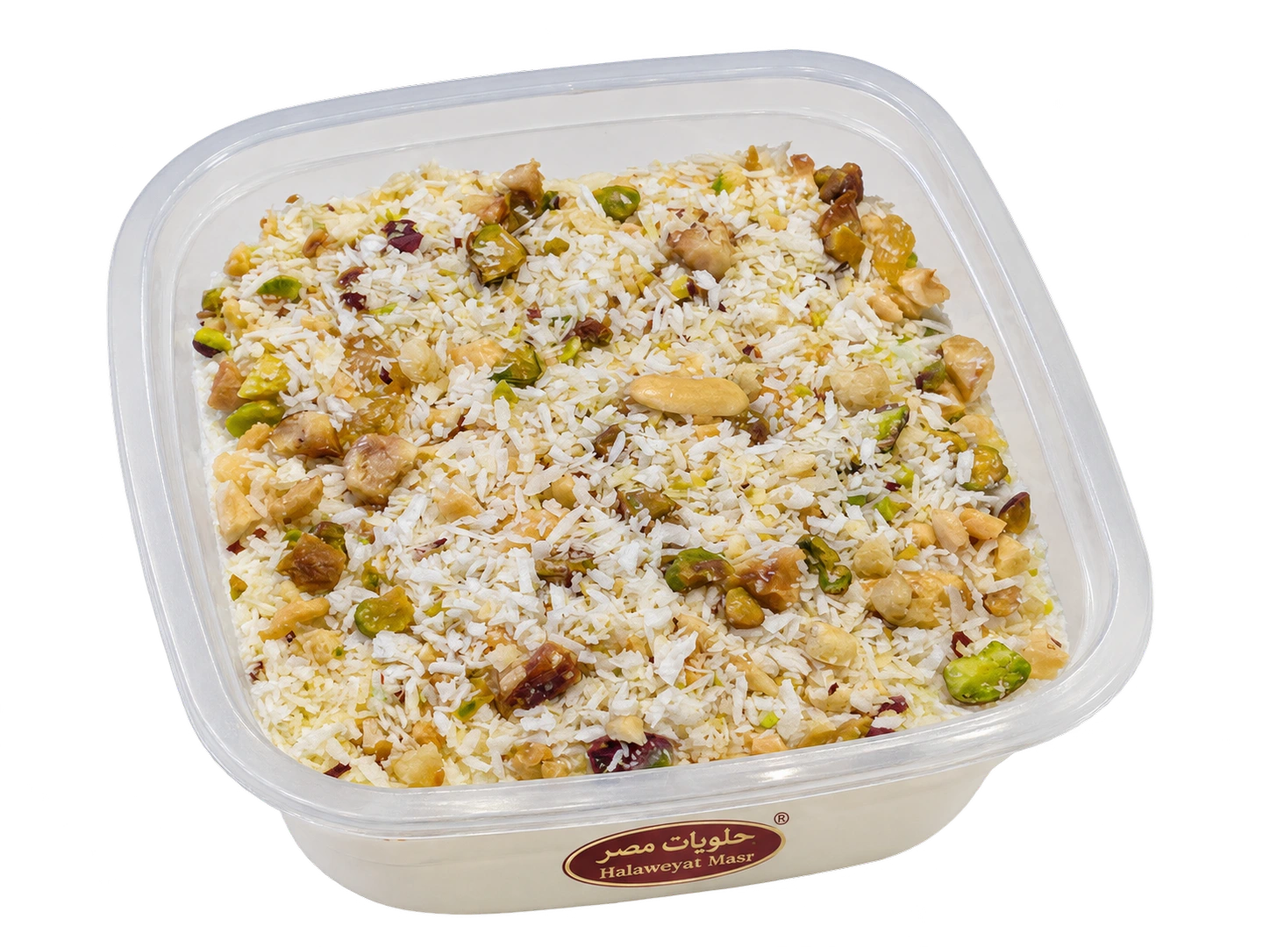
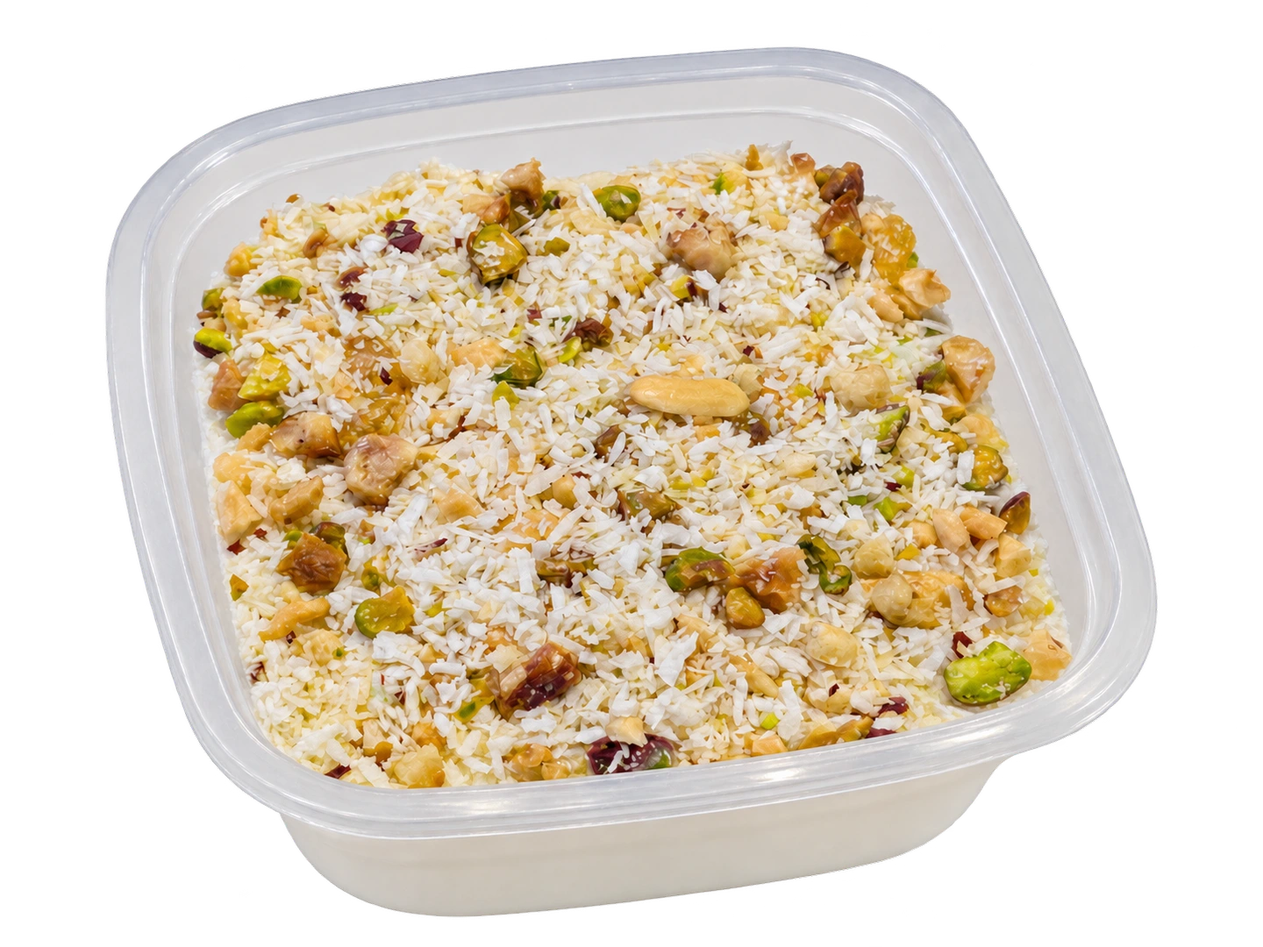
Adjust menu photo lighting and open dessert cups

diff --git a/index.html b/index.html
@@ -8,12 +8,23 @@
 <meta content="المنيو الرقمي لكافيه حلويات مصر: مشروبات وكاسات وأطباق متنوعة وأصناف مميزة." name="description"/>
 <title>منيو الكافيه | حلويات مصر</title>
 <link href="assets/logo.png" rel="icon" type="image/png"/>
-<link href="styles.css?v=menu-bottom-entry-1" rel="stylesheet"/>
+<link href="styles.css?v=menu-photo-lighting-1" rel="stylesheet"/>
 <link rel="preconnect" href="https://www.gstatic.com" crossorigin/>
-<link rel="modulepreload" href="catalog-sync.js?v=menu-dessert-studio-nov-25"/>
+<link rel="modulepreload" href="catalog-sync.js?v=menu-photo-lighting-1"/>
 <script defer="" src="app.js?v=menu-dessert-studio-nov-25"></script>
 </head>
 <body>
+<svg aria-hidden="true" class="product-photo-filters" width="0" height="0" xmlns="http://www.w3.org/2000/svg">
+<defs>
+<filter id="product-photo-lighting" color-interpolation-filters="sRGB">
+<feComponentTransfer>
+<feFuncR type="gamma" exponent=".88"/>
+<feFuncG type="gamma" exponent=".88"/>
+<feFuncB type="gamma" exponent=".88"/>
+</feComponentTransfer>
+</filter>
+</defs>
+</svg>
 <a class="skip-link" href="#main-content">تخطي إلى المنيو</a>
 <header class="site-header">
 <div class="container header-inner">
@@ -102,18 +113,19 @@
 <h2 id="dessert-cups-title">الكاسات والديسيرت</h2>
 <p class="section-intro">أصناف حلوة لكل وقت.</p>
 </div>
-<div class="products-grid products-grid--simple"><article class="product-card product-card--simple" data-category="dessert-cups" data-description-ar="" data-description-en="" data-image="" data-ingredients-ar="" data-ingredients-en="" data-name="اناناس بالكريمه" data-name-en="Pineapple with Cream" data-price="50" data-product-id="dessert-cups-1918"><h3 class="product-title">اناناس بالكريمه</h3><p class="price">50 <small>جنيه</small></p></article><article class="product-card product-card--simple" data-category="dessert-cups" data-description-ar="" data-description-en="" data-image="" data-ingredients-ar="" data-ingredients-en="" data-name="جيلى بالفواكه" data-name-en="Fruit Jelly" data-price="60" data-product-id="dessert-cups-1921"><h3 class="product-title">جيلى بالفواكه</h3><p class="price">60 <small>جنيه</small></p></article></div>
+<div class="products-grid products-grid--simple"><article class="product-card product-card--simple" data-category="dessert-cups" data-description-ar="" data-description-en="" data-image="" data-ingredients-ar="" data-ingredients-en="" data-name="جيلى بالفواكه" data-name-en="Fruit Jelly" data-price="60" data-product-id="dessert-cups-1921"><h3 class="product-title">جيلى بالفواكه</h3><p class="price">60 <small>جنيه</small></p></article></div>
 <div class="products-grid products-grid--details menu-photo-grid" id="dessert-cups-photos">
+<article class="product-card product-card--detail has-cutout" data-menu-photo="" data-category="dessert-cups" data-product-id="dessert-cups-1918" data-name="اناناس بالكريمه" data-name-en="Pineapple with Cream" data-price="50" data-description-ar="" data-description-en="" data-ingredients-ar="" data-ingredients-en="" data-image="assets/products/cutouts/pineapple-with-cream.webp?v=menu-photo-lighting-1"><div class="product-tap"><span class="product-visual photo-visual"><img alt="اناناس بالكريمه" decoding="async" loading="eager" src="assets/products/cutouts/cards/pineapple-with-cream.webp?v=menu-photo-lighting-1"/></span><span class="product-info"><span class="product-badge">من أطباقنا</span><span class="product-title">اناناس بالكريمه</span><span class="product-footer"><span class="price">50 <small>جنيه</small></span></span></span></div></article>
 <article class="product-card product-card--detail has-cutout" data-menu-photo="" data-category="dessert-cups" data-product-id="dessert-cups-1958" data-name="ايس كريم بوله بالمكسرات" data-name-en="Ice Cream Scoop with Nuts" data-price="50" data-description-ar="" data-description-en="" data-ingredients-ar="" data-ingredients-en="" data-image="assets/products/cutouts/ice-cream-nuts-single.webp?v=menu-dessert-studio-nov-25"><div class="product-tap"><span class="product-visual photo-visual"><img alt="ايس كريم بوله بالمكسرات" decoding="async" loading="eager" src="assets/products/cutouts/cards/ice-cream-nuts-single.webp?v=menu-dessert-studio-nov-25"/></span><span class="product-info"><span class="product-badge">من أطباقنا</span><span class="product-title">ايس كريم بوله بالمكسرات</span><span class="product-footer"><span class="price">50 <small>جنيه</small></span></span></span></div></article>
 <article class="product-card product-card--detail has-cutout" data-menu-photo="" data-category="dessert-cups" data-product-id="dessert-cups-1959" data-name="ايس كريم 2 بوله بالمكسرات" data-name-en="Two Ice Cream Scoops with Nuts" data-price="100" data-description-ar="" data-description-en="" data-ingredients-ar="" data-ingredients-en="" data-image="assets/products/cutouts/ice-cream-nuts-double.webp?v=menu-dessert-studio-nov-25"><div class="product-tap"><span class="product-visual photo-visual"><img alt="ايس كريم 2 بوله بالمكسرات" decoding="async" loading="eager" src="assets/products/cutouts/cards/ice-cream-nuts-double.webp?v=menu-dessert-studio-nov-25"/></span><span class="product-info"><span class="product-badge">من أطباقنا</span><span class="product-title">ايس كريم 2 بوله بالمكسرات</span><span class="product-footer"><span class="price">100 <small>جنيه</small></span></span></span></div></article>
 <article class="product-card product-card--detail has-cutout" data-menu-photo="" data-category="dessert-cups" data-product-id="dessert-cups-2192" data-name="ايس كريم فواكة" data-name-en="Fruit Ice Cream" data-price="90" data-description-ar="" data-description-en="" data-ingredients-ar="" data-ingredients-en="" data-image="assets/products/cutouts/fruit-ice-cream.webp?v=menu-dessert-studio-nov-25"><div class="product-tap"><span class="product-visual photo-visual"><img alt="ايس كريم فواكة" decoding="async" loading="eager" src="assets/products/cutouts/cards/fruit-ice-cream.webp?v=menu-dessert-studio-nov-25"/></span><span class="product-info"><span class="product-badge">من أطباقنا</span><span class="product-title">ايس كريم فواكة</span><span class="product-footer"><span class="price">90 <small>جنيه</small></span></span></span></div></article>
 <article class="product-card product-card--detail has-cutout" data-menu-photo="" data-category="dessert-cups" data-product-id="dessert-cups-1960" data-name="ايس كريم سوفت" data-name-en="Soft Ice Cream" data-price="40" data-description-ar="" data-description-en="" data-ingredients-ar="" data-ingredients-en="" data-image="assets/products/cutouts/soft-serve-no-plate.webp?v=menu-dessert-studio-nov-25"><div class="product-tap"><span class="product-visual photo-visual"><img alt="ايس كريم سوفت" decoding="async" loading="eager" src="assets/products/cutouts/cards/soft-serve-no-plate.webp?v=menu-dessert-studio-nov-25"/></span><span class="product-info"><span class="product-badge">من أطباقنا</span><span class="product-title">ايس كريم سوفت</span><span class="product-footer"><span class="price">40 <small>جنيه</small></span></span></span></div></article>
 <article class="product-card product-card--detail has-cutout" data-menu-photo="" data-category="dessert-cups" data-product-id="dessert-cups-2026" data-name="ايس كريم سوفت اوريو/صوصات" data-name-en="Soft Serve with Oreo / Sauces" data-price="70" data-description-ar="" data-description-en="" data-ingredients-ar="" data-ingredients-en="" data-image="assets/products/cutouts/soft-serve-sauce-no-plate.webp?v=menu-dessert-studio-nov-25"><div class="product-tap"><span class="product-visual photo-visual"><img alt="ايس كريم سوفت اوريو/صوصات" decoding="async" loading="eager" src="assets/products/cutouts/cards/soft-serve-sauce-no-plate.webp?v=menu-dessert-studio-nov-25"/></span><span class="product-info"><span class="product-badge">من أطباقنا</span><span class="product-title">ايس كريم سوفت اوريو/صوصات</span><span class="product-footer"><span class="price">70 <small>جنيه</small></span></span></span></div></article>
-<article class="product-card product-card--detail has-cutout" data-menu-photo="" data-category="dessert-cups" data-product-id="dessert-cups-1926" data-name="كوكتيل فواكه بالكريمه" data-name-en="Fruit Cocktail with Cream" data-price="80" data-description-ar="" data-description-en="" data-ingredients-ar="" data-ingredients-en="" data-image="assets/products/cutouts/fruit-cocktail-cream.webp?v=menu-dessert-studio-nov-25"><div class="product-tap"><span class="product-visual photo-visual"><img alt="كوكتيل فواكه بالكريمه" decoding="async" loading="eager" src="assets/products/cutouts/cards/fruit-cocktail-cream.webp?v=menu-dessert-studio-nov-25"/></span><span class="product-info"><span class="product-badge">من أطباقنا</span><span class="product-title">كوكتيل فواكه بالكريمه</span><span class="product-footer"><span class="price">80 <small>جنيه</small></span></span></span></div></article>
+<article class="product-card product-card--detail has-cutout" data-menu-photo="" data-category="dessert-cups" data-product-id="dessert-cups-1926" data-name="كوكتيل فواكه بالكريمه" data-name-en="Fruit Cocktail with Cream" data-price="80" data-description-ar="" data-description-en="" data-ingredients-ar="" data-ingredients-en="" data-image="assets/products/cutouts/fruit-cocktail-cream.webp?v=menu-photo-lighting-1"><div class="product-tap"><span class="product-visual photo-visual"><img alt="كوكتيل فواكه بالكريمه" decoding="async" loading="eager" src="assets/products/cutouts/cards/fruit-cocktail-cream.webp?v=menu-photo-lighting-1"/></span><span class="product-info"><span class="product-badge">من أطباقنا</span><span class="product-title">كوكتيل فواكه بالكريمه</span><span class="product-footer"><span class="price">80 <small>جنيه</small></span></span></span></div></article>
 <article class="product-card product-card--detail has-cutout" data-menu-photo="" data-category="dessert-cups" data-product-id="dessert-cups-1913" data-name="كاستر مكسرات" data-name-en="Custard with Nuts" data-price="50" data-description-ar="" data-description-en="" data-ingredients-ar="" data-ingredients-en="" data-image="assets/products/cutouts/custard-nuts.webp?v=menu-dessert-studio-nov-25"><div class="product-tap"><span class="product-visual photo-visual"><img alt="كاستر مكسرات" decoding="async" loading="eager" src="assets/products/cutouts/cards/custard-nuts.webp?v=menu-dessert-studio-nov-25"/></span><span class="product-info"><span class="product-badge">من أطباقنا</span><span class="product-title">كاستر مكسرات</span><span class="product-footer"><span class="price">50 <small>جنيه</small></span></span></span></div></article>
 <article class="product-card product-card--detail has-cutout" data-menu-photo="" data-category="dessert-cups" data-product-id="dessert-cups-1912" data-name="عاشوراء بالمكسرات" data-name-en="Ashoura with Nuts" data-price="50" data-description-ar="" data-description-en="" data-ingredients-ar="" data-ingredients-en="" data-image="assets/products/cutouts/ashoura-nuts.webp?v=menu-dessert-studio-nov-25"><div class="product-tap"><span class="product-visual photo-visual"><img alt="عاشوراء بالمكسرات" decoding="async" loading="eager" src="assets/products/cutouts/cards/ashoura-nuts.webp?v=menu-dessert-studio-nov-25"/></span><span class="product-info"><span class="product-badge">من أطباقنا</span><span class="product-title">عاشوراء بالمكسرات</span><span class="product-footer"><span class="price">50 <small>جنيه</small></span></span></span></div></article>
 <article class="product-card product-card--detail has-cutout" data-menu-photo="" data-category="dessert-cups" data-product-id="dessert-cups-1929" data-name="ارز باللبن سادة" data-name-en="Plain Rice Pudding" data-price="45" data-description-ar="" data-description-en="" data-ingredients-ar="" data-ingredients-en="" data-image="assets/products/cutouts/plain-rice-pudding.webp?v=menu-dessert-studio-nov-25"><div class="product-tap"><span class="product-visual photo-visual"><img alt="ارز باللبن سادة" decoding="async" loading="eager" src="assets/products/cutouts/cards/plain-rice-pudding.webp?v=menu-dessert-studio-nov-25"/></span><span class="product-info"><span class="product-badge">من أطباقنا</span><span class="product-title">ارز باللبن سادة</span><span class="product-footer"><span class="price">45 <small>جنيه</small></span></span></span></div></article>
-<article class="product-card product-card--detail has-cutout" data-menu-photo="" data-category="dessert-cups" data-product-id="dessert-cups-1911" data-name="ارز باللبن بالمكسرات" data-name-en="Rice Pudding with Nuts" data-price="50" data-description-ar="" data-description-en="" data-ingredients-ar="" data-ingredients-en="" data-image="assets/products/cutouts/rice-pudding-nuts.webp?v=menu-dessert-studio-nov-25"><div class="product-tap"><span class="product-visual photo-visual"><img alt="ارز باللبن بالمكسرات" decoding="async" loading="eager" src="assets/products/cutouts/cards/rice-pudding-nuts.webp?v=menu-dessert-studio-nov-25"/></span><span class="product-info"><span class="product-badge">من أطباقنا</span><span class="product-title">ارز باللبن بالمكسرات</span><span class="product-footer"><span class="price">50 <small>جنيه</small></span></span></span></div></article>
+<article class="product-card product-card--detail has-cutout" data-menu-photo="" data-category="dessert-cups" data-product-id="dessert-cups-1911" data-name="ارز باللبن بالمكسرات" data-name-en="Rice Pudding with Nuts" data-price="50" data-description-ar="" data-description-en="" data-ingredients-ar="" data-ingredients-en="" data-image="assets/products/cutouts/rice-pudding-nuts.webp?v=menu-photo-lighting-1"><div class="product-tap"><span class="product-visual photo-visual"><img alt="ارز باللبن بالمكسرات" decoding="async" loading="eager" src="assets/products/cutouts/cards/rice-pudding-nuts.webp?v=menu-photo-lighting-1"/></span><span class="product-info"><span class="product-badge">من أطباقنا</span><span class="product-title">ارز باللبن بالمكسرات</span><span class="product-footer"><span class="price">50 <small>جنيه</small></span></span></span></div></article>
 <article class="product-card product-card--detail has-cutout" data-menu-photo="" data-category="dessert-cups" data-product-id="dessert-cups-1930" data-name="ارز باللبن بالايس كريم" data-name-en="Rice Pudding with Ice Cream" data-price="60" data-description-ar="" data-description-en="" data-ingredients-ar="" data-ingredients-en="" data-image="assets/products/cutouts/rice-pudding-ice-cream.webp?v=menu-dessert-studio-nov-25"><div class="product-tap"><span class="product-visual photo-visual"><img alt="ارز باللبن بالايس كريم" decoding="async" loading="eager" src="assets/products/cutouts/cards/rice-pudding-ice-cream.webp?v=menu-dessert-studio-nov-25"/></span><span class="product-info"><span class="product-badge">من أطباقنا</span><span class="product-title">ارز باللبن بالايس كريم</span><span class="product-footer"><span class="price">60 <small>جنيه</small></span></span></span></div></article>
 <article class="product-card product-card--detail has-cutout" data-menu-photo="" data-category="dessert-cups" data-product-id="dessert-cups-1925" data-name="مانجو بالكريمة" data-name-en="Mango with Cream" data-price="55" data-description-ar="" data-description-en="" data-ingredients-ar="" data-ingredients-en="" data-image="assets/products/cutouts/mango-with-cream.webp?v=menu-dessert-photos-2"><div class="product-tap"><span class="product-visual photo-visual"><img alt="مانجو بالكريمة" decoding="async" loading="eager" src="assets/products/cutouts/cards/mango-with-cream.webp?v=menu-dessert-photos-2"/></span><span class="product-info"><span class="product-badge">من أطباقنا</span><span class="product-title">مانجو بالكريمة</span><span class="product-footer"><span class="price">55 <small>جنيه</small></span></span></span></div></article>
 <article class="product-card product-card--detail has-cutout" data-menu-photo="" data-category="dessert-cups" data-product-id="dessert-cups-1983" data-name="فراولة بالكريمة" data-name-en="Strawberry with Cream" data-price="50" data-description-ar="" data-description-en="" data-ingredients-ar="" data-ingredients-en="" data-image="assets/products/cutouts/strawberry-with-cream.webp?v=menu-dessert-photos-2"><div class="product-tap"><span class="product-visual photo-visual"><img alt="فراولة بالكريمة" decoding="async" loading="eager" src="assets/products/cutouts/cards/strawberry-with-cream.webp?v=menu-dessert-photos-2"/></span><span class="product-info"><span class="product-badge">من أطباقنا</span><span class="product-title">فراولة بالكريمة</span><span class="product-footer"><span class="price">50 <small>جنيه</small></span></span></span></div></article>
@@ -124,7 +136,7 @@
 <article class="product-card product-card--detail has-cutout" data-menu-photo="" data-category="dessert-cups" data-product-id="dessert-cups-1933" data-name="كاستر سادة" data-name-en="Plain Custard" data-price="45" data-description-ar="" data-description-en="" data-ingredients-ar="" data-ingredients-en="" data-image="assets/products/cutouts/plain-custard-studio.webp?v=menu-dessert-studio-nov-25"><div class="product-tap"><span class="product-visual photo-visual"><img alt="كاستر سادة" decoding="async" loading="eager" src="assets/products/cutouts/cards/plain-custard-studio.webp?v=menu-dessert-studio-nov-25"/></span><span class="product-info"><span class="product-badge">من أطباقنا</span><span class="product-title">كاستر سادة</span><span class="product-footer"><span class="price">45 <small>جنيه</small></span></span></span></div></article>
 <article class="product-card product-card--detail has-cutout" data-menu-photo="" data-category="dessert-cups" data-product-id="dessert-cups-1924" data-name="كاستر فواكه" data-name-en="Fruit Custard" data-price="60" data-description-ar="" data-description-en="" data-ingredients-ar="" data-ingredients-en="" data-image="assets/products/cutouts/fruit-custard.webp?v=menu-dessert-photos-2"><div class="product-tap"><span class="product-visual photo-visual"><img alt="كاستر فواكه" decoding="async" loading="eager" src="assets/products/cutouts/cards/fruit-custard.webp?v=menu-dessert-photos-2"/></span><span class="product-info"><span class="product-badge">من أطباقنا</span><span class="product-title">كاستر فواكه</span><span class="product-footer"><span class="price">60 <small>جنيه</small></span></span></span></div></article>
 <article class="product-card product-card--detail has-cutout" data-menu-photo="" data-category="dessert-cups" data-product-id="dessert-cups-1932" data-name="عاشوراء سادة" data-name-en="Plain Ashoura" data-price="45" data-description-ar="" data-description-en="" data-ingredients-ar="" data-ingredients-en="" data-image="assets/products/cutouts/plain-ashoura-studio.webp?v=menu-dessert-studio-nov-25"><div class="product-tap"><span class="product-visual photo-visual"><img alt="عاشورة سادة" decoding="async" loading="eager" src="assets/products/cutouts/cards/plain-ashoura-studio.webp?v=menu-dessert-studio-nov-25"/></span><span class="product-info"><span class="product-badge">من أطباقنا</span><span class="product-title">عاشوراء سادة</span><span class="product-footer"><span class="price">45 <small>جنيه</small></span></span></span></div></article>
-<article class="product-card product-card--detail has-cutout" data-menu-photo="" data-category="dessert-cups" data-product-id="dessert-cups-2455" data-name="كانز ايس كريم" data-name-en="Canned Ice Cream" data-price="90" data-description-ar="" data-description-en="" data-ingredients-ar="" data-ingredients-en="" data-image="assets/products/cutouts/canned-ice-cream-mango.webp?v=menu-studio-photos-1"><div class="product-tap"><span class="product-visual photo-visual photo-visual--pair"><img alt="كانز مانجو" decoding="async" loading="eager" src="assets/products/cutouts/cards/canned-ice-cream-mango.webp?v=menu-studio-photos-1"/><img alt="كانز فستق" decoding="async" loading="eager" src="assets/products/cutouts/cards/canned-ice-cream-pistachio.webp?v=menu-studio-photos-1"/></span><span class="product-info"><span class="product-badge">من أطباقنا</span><span class="product-title">كانز ايس كريم</span><span class="product-footer"><span class="price">90 <small>جنيه</small></span></span></span></div></article>
+<article class="product-card product-card--detail has-cutout" data-menu-photo="" data-category="dessert-cups" data-product-id="dessert-cups-2455" data-name="كانز ايس كريم" data-name-en="Canned Ice Cream" data-price="90" data-description-ar="" data-description-en="" data-ingredients-ar="" data-ingredients-en="" data-image="assets/products/cutouts/canned-ice-cream-mango.webp?v=menu-photo-lighting-1"><div class="product-tap"><span class="product-visual photo-visual photo-visual--pair"><img alt="كانز مانجو" decoding="async" loading="eager" src="assets/products/cutouts/cards/canned-ice-cream-mango.webp?v=menu-photo-lighting-1"/><img alt="كانز فستق" decoding="async" loading="eager" src="assets/products/cutouts/cards/canned-ice-cream-pistachio.webp?v=menu-photo-lighting-1"/></span><span class="product-info"><span class="product-badge">من أطباقنا</span><span class="product-title">كانز ايس كريم</span><span class="product-footer"><span class="price">90 <small>جنيه</small></span></span></span></div></article>
 <article class="product-card product-card--detail has-cutout" data-menu-photo="" data-category="dessert-cups" data-product-id="dessert-cups-1935" data-name="أرز باللبن بسبوسة/كنافة/لوتس/قشطة" data-name-en="Rice Pudding with Basbousa / Kunafa / Lotus / Cream" data-price="70" data-description-ar="" data-description-en="" data-ingredients-ar="" data-ingredients-en="" data-image="assets/products/cutouts/rice-pudding-kunafa.webp?v=menu-studio-photos-1"><div class="product-tap"><span class="product-visual photo-visual photo-visual--pair"><img alt="أرز باللبن بالكنافة" decoding="async" loading="eager" src="assets/products/cutouts/cards/rice-pudding-kunafa.webp?v=menu-studio-photos-1"/><img alt="أرز باللبن بالبسبوسة" decoding="async" loading="eager" src="assets/products/cutouts/cards/rice-pudding-basbousa.webp?v=menu-studio-photos-1"/></span><span class="product-info"><span class="product-badge">من أطباقنا</span><span class="product-title">أرز باللبن بسبوسة/كنافة/لوتس/قشطة</span><span class="product-footer"><span class="price">70 <small>جنيه</small></span></span></span></div></article>
 </div>
 </div>
@@ -136,9 +148,10 @@
 <h2 id="mixed-plates-title">أطباق متنوعة</h2>
 <p class="section-intro">أطباق ومخبوزات بتفاصيل تستاهل تتشاف.</p>
 </div>
-<div class="products-grid products-grid--simple"><article class="product-card product-card--simple" data-category="mixed-plates" data-description-ar="" data-description-en="" data-image="" data-ingredients-ar="" data-ingredients-en="" data-name="كرواسون رومى" data-name-en="Roumy Cheese Croissant" data-price="55" data-product-id="mixed-plates-1974"><h3 class="product-title">كرواسون رومى</h3><p class="price">55 <small>جنيه</small></p></article><article class="product-card product-card--simple" data-category="mixed-plates" data-description-ar="" data-description-en="" data-image="" data-ingredients-ar="" data-ingredients-en="" data-name="بليلة باللبن" data-name-en="Wheat Pudding with Milk" data-price="60" data-product-id="mixed-plates-06741892"><h3 class="product-title">بليلة باللبن</h3><p class="price">60 <small>جنيه</small></p></article><article class="product-card product-card--simple" data-category="mixed-plates" data-description-ar="" data-description-en="" data-image="" data-ingredients-ar="" data-ingredients-en="" data-name="وافل شيكولاتة/كراميل/لوتس/فسدق بالايس كريم" data-name-en="Waffle with Ice Cream &amp; Sauce" data-price="130" data-product-id="mixed-plates-2381"><h3 class="product-title">وافل شيكولاتة/كراميل/لوتس/فسدق بالايس كريم</h3><p class="price">130 <small>جنيه</small></p></article></div>
+<div class="products-grid products-grid--simple"><article class="product-card product-card--simple" data-category="mixed-plates" data-description-ar="" data-description-en="" data-image="" data-ingredients-ar="" data-ingredients-en="" data-name="بليلة باللبن" data-name-en="Wheat Pudding with Milk" data-price="60" data-product-id="mixed-plates-06741892"><h3 class="product-title">بليلة باللبن</h3><p class="price">60 <small>جنيه</small></p></article><article class="product-card product-card--simple" data-category="mixed-plates" data-description-ar="" data-description-en="" data-image="" data-ingredients-ar="" data-ingredients-en="" data-name="وافل شيكولاتة/كراميل/لوتس/فسدق بالايس كريم" data-name-en="Waffle with Ice Cream &amp; Sauce" data-price="130" data-product-id="mixed-plates-2381"><h3 class="product-title">وافل شيكولاتة/كراميل/لوتس/فسدق بالايس كريم</h3><p class="price">130 <small>جنيه</small></p></article></div>
 <div class="products-grid products-grid--details menu-photo-grid" id="mixed-plates-photos">
-<article class="product-card product-card--detail has-cutout" data-menu-photo="" data-category="mixed-plates" data-product-id="mixed-plates-1919" data-name="شوكو اب" data-name-en="Choco Up" data-price="60" data-description-ar="" data-description-en="" data-ingredients-ar="" data-ingredients-en="" data-image="assets/products/cutouts/choco-up.webp?v=menu-dessert-studio-nov-25"><div class="product-tap"><span class="product-visual photo-visual"><img alt="شوكو اب" decoding="async" loading="eager" src="assets/products/cutouts/cards/choco-up.webp?v=menu-dessert-studio-nov-25"/></span><span class="product-info"><span class="product-badge">من أطباقنا</span><span class="product-title">شوكو اب</span><span class="product-footer"><span class="price">60 <small>جنيه</small></span></span></span></div></article>
+<article class="product-card product-card--detail has-cutout" data-menu-photo="" data-category="mixed-plates" data-product-id="mixed-plates-1974" data-name="كرواسون رومى" data-name-en="Roumy Cheese Croissant" data-price="55" data-description-ar="" data-description-en="" data-ingredients-ar="" data-ingredients-en="" data-image="assets/products/cutouts/roumy-croissant.webp?v=menu-photo-lighting-1"><div class="product-tap"><span class="product-visual photo-visual"><img alt="كرواسون رومى" decoding="async" loading="eager" src="assets/products/cutouts/cards/roumy-croissant.webp?v=menu-photo-lighting-1"/></span><span class="product-info"><span class="product-badge">من أطباقنا</span><span class="product-title">كرواسون رومى</span><span class="product-footer"><span class="price">55 <small>جنيه</small></span></span></span></div></article>
+<article class="product-card product-card--detail has-cutout" data-menu-photo="" data-category="mixed-plates" data-product-id="mixed-plates-1919" data-name="شوكو اب" data-name-en="Choco Up" data-price="60" data-description-ar="" data-description-en="" data-ingredients-ar="" data-ingredients-en="" data-image="assets/products/cutouts/choco-up.webp?v=menu-photo-lighting-1"><div class="product-tap"><span class="product-visual photo-visual"><img alt="شوكو اب" decoding="async" loading="eager" src="assets/products/cutouts/cards/choco-up.webp?v=menu-photo-lighting-1"/></span><span class="product-info"><span class="product-badge">من أطباقنا</span><span class="product-title">شوكو اب</span><span class="product-footer"><span class="price">60 <small>جنيه</small></span></span></span></div></article>
 <article class="product-card product-card--detail has-cutout" data-menu-photo="" data-category="mixed-plates" data-product-id="mixed-plates-784" data-name="طبق شامية" data-name-en="Assorted Shamia Plate" data-price="" data-description-ar="" data-description-en="" data-ingredients-ar="" data-ingredients-en="" data-image="assets/products/cutouts/shamiya-plate.webp?v=menu-dessert-studio-nov-25"><div class="product-tap"><span class="product-visual photo-visual"><img alt="طبق شامية" decoding="async" loading="eager" src="assets/products/cutouts/cards/shamiya-plate.webp?v=menu-dessert-studio-nov-25"/></span><span class="product-info"><span class="product-badge">من أطباقنا</span><span class="product-title">طبق شامية</span><span class="product-footer"><span class="price"> <small>اسأل عن السعر</small></span></span></span></div></article>
 <article class="product-card product-card--detail has-cutout" data-menu-photo="" data-category="mixed-plates" data-product-id="mixed-plates-786" data-name="طبق ساليزون" data-name-en="Savory Pastry Plate" data-price="" data-description-ar="" data-description-en="" data-ingredients-ar="" data-ingredients-en="" data-image="assets/products/cutouts/salizon-plate.webp?v=menu-dessert-studio-nov-25"><div class="product-tap"><span class="product-visual photo-visual"><img alt="طبق ساليزون" decoding="async" loading="eager" src="assets/products/cutouts/cards/salizon-plate.webp?v=menu-dessert-studio-nov-25"/></span><span class="product-info"><span class="product-badge">من أطباقنا</span><span class="product-title">طبق ساليزون</span><span class="product-footer"><span class="price"> <small>اسأل عن السعر</small></span></span></span></div></article>
 <article class="product-card product-card--detail has-cutout" data-menu-photo="" data-category="mixed-plates" data-product-id="mixed-plates-1984" data-name="مولتن كيك بالايس كريم" data-name-en="Molten Cake with Ice Cream" data-price="110" data-description-ar="" data-description-en="" data-ingredients-ar="" data-ingredients-en="" data-image="assets/products/cutouts/molten-cake-ice-cream.webp?v=menu-dessert-studio-nov-25"><div class="product-tap"><span class="product-visual photo-visual"><img alt="مولتن كيك بالايس كريم" decoding="async" loading="eager" src="assets/products/cutouts/cards/molten-cake-ice-cream.webp?v=menu-dessert-studio-nov-25"/></span><span class="product-info"><span class="product-badge">من أطباقنا</span><span class="product-title">مولتن كيك بالايس كريم</span><span class="product-footer"><span class="price">110 <small>جنيه</small></span></span></span></div></article>
@@ -221,7 +234,7 @@
 </div>
 </div>
 </dialog>
-<script src="catalog-sync.js?v=menu-dessert-studio-nov-25" type="module"></script>
+<script src="catalog-sync.js?v=menu-photo-lighting-1" type="module"></script>
 <script type="module" data-menu-analytics>
 const initializeAnalytics = () => Promise.allSettled([
   import('./menu-analytics.js?v=1'), import('./menu-stats.js?v=1')

diff --git a/styles.css b/styles.css
@@ -1693,6 +1693,10 @@ html[dir="ltr"] .product-tap:focus-visible .details-arrow { transform: scaleX(-1
   background: radial-gradient(ellipse at 50% 63%, #f2d39d, #fbf0e1 69%, #fff7ee);
 }
 .is-gallery .dialog-photo-stage { touch-action: pan-y pinch-zoom; }
+.product-photo-filters { position: absolute; }
+:is(.product-card .photo-visual, .product-card .simple-thumb, .dialog-photo-stage) img {
+  filter: url(#product-photo-lighting);
+}
 .is-featured .dialog-product-image.has-photo .dialog-photo-stage img {
   width: 100%;
   height: 100%;
@@ -1701,7 +1705,7 @@ html[dir="ltr"] .product-tap:focus-visible .details-arrow { transform: scaleX(-1
   object-fit: contain;
 }
 @media (hover: hover) and (pointer: fine) {
-  .is-featured .dialog-photo-stage img { filter: drop-shadow(0 8px 12px #27162e24); }
+  .is-featured .dialog-photo-stage img { filter: url(#product-photo-lighting) drop-shadow(0 8px 12px #27162e24); }
 }
 .dialog-photo-navigation {
   display: grid;
